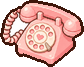
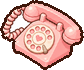
Room items: phone parallel to the TV cabinet, slippers off the rug
The phone art is turned 11 degrees so its base lines up with the cabinet
(new ROTATE option in imprint_items.py). The slippers move just outside the
rug's front edge so they no longer overlap it.

Claude-Session: https://claude.ai/code/session_01MT4YkmG2KGTMjF5XqnwBbs

diff --git a/public/joys-config.js b/public/joys-config.js
@@ -9,7 +9,7 @@ export const IMPRINTS = {
   cat: { name: '小貓抱枕', where: '床上', x: 520, y: 520, w: 130, h: 81, z: 2 },
   coffee: { name: '拿鐵', where: '書桌上', x: 705, y: 332, w: 54, h: 47, z: 1 },
   meal: { name: '小矮桌和碗筷', where: '電視前的地毯上', x: 975, y: 705, w: 170, h: 121, r: .07, z: 3 },
-  hearts: { name: '兩雙室內拖鞋', where: '地毯旁邊', x: 855, y: 792, w: 112, h: 56, r: .03, z: 3 },
+  hearts: { name: '兩雙室內拖鞋', where: '地毯旁邊', x: 832, y: 820, w: 112, h: 56, r: .03, z: 3 },
   gift: { name: '禮物盒', where: '書櫃旁邊', x: 245, y: 705, w: 105, h: 141, r: .04, z: 4 },
   bear: { name: '熊熊玩偶', where: '床邊', x: 330, y: 720, w: 95, h: 126, r: .035, z: 5 },
   paw: { name: '貓狗玩偶', where: '書櫃上', x: 150, y: 430, w: 92, h: 62, z: 2 },
@@ -17,7 +17,7 @@ export const IMPRINTS = {
   star: { name: '星星吊飾', where: '書桌旁的牆上', x: 1022, y: 240, w: 200, h: 135, z: 1 },
   sneaker: { name: '地球儀', where: '書櫃上', x: 212, y: 396, w: 62, h: 86, z: 1 },
   cake: { name: '杯子蛋糕', where: '書桌上', x: 705, y: 334, w: 58, h: 58, z: 1 },
-  call: { name: '復古電話', where: '電視櫃上', x: 1212, y: 576, w: 84, h: 67, z: 1 },
+  call: { name: '復古電話', where: '電視櫃上', x: 1212, y: 576, w: 84, h: 70, z: 1 },
   camera: { name: '拍立得相機', where: '牆角的層架上', x: 845, y: 182, w: 52, h: 52, z: 1 },
   home: { name: '全家福相框', where: '牆角的層架上', x: 790, y: 156, w: 56, h: 55, z: 1 },
   plant: { name: '小多肉盆栽', where: '窗台上', x: 470, y: 398, w: 64, h: 49, z: 1 },

diff --git a/public/sw.js b/public/sw.js
@@ -1,5 +1,5 @@
 // 版本號：主.次.修（見 CLAUDE.md「版本號」）。改了任何檔案就把最後一位 +1，舊快取才會被清掉
-const VERSION = '0.0.99';
+const VERSION = '0.0.100';
 const CACHE = `lifelog-${VERSION}`;
 const ASSETS = [
   './',

diff --git a/art/tools/imprint_items.py b/art/tools/imprint_items.py
@@ -28,6 +28,8 @@ WIDTH = {'cat': 130, 'coffee': 54, 'meal': 170, 'gift': 105, 'bear': 95, 'hearts
 # 掛在牆上的要照牆的斜度斜過去：每往右 1px 往下幾 px（GPT 畫的是正面，右牆約往下 0.49，原圖的線已經斜 0.19）
 # 負的是往右上升：左牆、窗簾桿（約 -0.49）
 SHEAR = {'star': 0.3, 'sparkle': -0.49, 'sunset': -0.49, 'bike': 0.49, 'bath': 0.49}
+# GPT 畫的角度差一點的，順時針轉幾度跟家具平行（電話要和電視櫃平行）
+ROTATE = {'call': 11}
 # 小東西的外框細一點（預設 3px）
 LINE_W = {'star': 2, 'sparkle': 2}
 
@@ -47,6 +49,9 @@ def main():
     OUT.mkdir(parents=True, exist_ok=True)
     for key, w in WIDTH.items():
         im = white_cut(SRC / f'{key}.png')
+        if key in ROTATE:
+            im = im.rotate(-ROTATE[key], expand=True, resample=Image.BICUBIC)
+            im = im.crop(im.getbbox())
         if key in SHEAR:
             k = SHEAR[key]
             dy = round(im.width * abs(k))

diff --git a/CLAUDE.md b/CLAUDE.md
@@ -165,8 +165,8 @@
   - **多選一的擺放位置**（使用者定案，取代原本的「新家具直接疊上去」）：`joys-config.js` 的 `SLOT_OF` 把 32 個圖示分到 22 個位置（`SLOTS` 是位置名稱），同一個位置一次只放一件。拿到新家具時位置已經有東西，視窗問「換上（原本的收起來）／先收著」；收藏冊的按鈕是「放到房間／換上／收起來」。`shownImprints` 和伺服器 `sharedView` 都是新放的在前，`onePerSlot` 每個位置只留第一件（兩台手機各放一件時，留最後放的）。多選一的位置：書桌左邊 coffee／cake、床上 cat／game、書櫃旁地板 gift／workout、地毯中間 meal／cook、電視櫃上（電視右邊）sun／movie／sing／call、門邊地板 umbrella／shop／clean、門上掛鉤 bath／bike。
   - 擺放規劃（使用者定案）：**32 件家具都有圖了**，完整的 22 個位置見 `SLOT_OF`、座標見 `IMPRINTS`。**大小以熊熊為現實比例參考**（使用者定案：瑜珈墊比熊熊高、書和熊熊差不多高）。
     - 書桌左邊 coffee 拿鐵（只有杯子，和蛋糕一樣大）／cake；書桌上的紙條位置不變。角落層架長邊：home 全家福（左）、camera 拍立得（右，只有相機）。窗台 plant、窗簾桿 sparkle 串燈、窗戶旁的牆 sunset 明信片（兩個 `SHEAR` -0.49：負的是往右上升）。
-    - 床上 cat／game；書櫃頂 sneaker 地球儀、paw；書櫃旁 gift／workout；小熊旁 book；地毯中間 meal／cook（同一張小矮桌換成一鍋湯）；地毯左前方 hearts 兩雙室內拖鞋（取代愛心氣球，舊圖 `hearts_balloons.png`）；前方地板 icecream 懶骨頭。
-    - 電視櫃最左格 music 唱片機；電視櫃上（電視右邊）call／sun／movie／sing；門邊地板 umbrella／shop／clean；門前 letter；門上掛鉤 bath／bike（`SHEAR` 0.49，照右牆往右下）。
+    - 床上 cat／game；書櫃頂 sneaker 地球儀、paw；書櫃旁 gift／workout；小熊旁 book；地毯中間 meal／cook（同一張小矮桌換成一鍋湯）；地毯左前方 hearts 兩雙室內拖鞋（放在地毯外面，不疊到地毯；取代愛心氣球，舊圖 `hearts_balloons.png`）；前方地板 icecream 懶骨頭。
+    - 電視櫃最左格 music 唱片機；電視櫃上（電視右邊）call／sun／movie／sing（站在桌面中間；電話用 `imprint_items.py` 的 `ROTATE` 轉 11 度，和櫃子平行）；門邊地板 umbrella／shop／clean；門前 letter；門上掛鉤 bath／bike（`SHEAR` 0.49，照右牆往右下）。
     - 舊模型圖留著備用：`camera_tripod.png`、`cloud_beanbag.png`、`coffee_pot.png`、`hearts_balloons.png`、`shoes.png`。
   - 收藏冊在「累積幸福 → 全部」最下面，32 格（`JOY_ICONS` 全部）。
 - **使用者在小幸福選單（artifact）選了 32 個**：原本 24 個，加上 game 玩了喜歡的遊戲、cook 自己做了一頓飯、shop 買到喜歡的東西、workout 去運動了、movie 看了好看的電影、clean 把房間整理乾淨、call 和好久不見的人聊天、sing 大聲唱了歌。這 8 個已加進 `JOY_ICONS`（emoji）和 `ASK`，但**還沒有像素圖示**：不在 `JOY_PIX`，所以不能選來當小幸福或紙條貼圖（`PICKABLE_ICONS`），收藏冊顯示「即將推出」；圖做好放進 `public/joys/`、加進 `JOY_PIX` 和 `sw.js`，再加進 `SUGGESTIONS`。原本只有圖示的 6 個補了名稱，加進建議：被抱抱了 bear、照顧了植物 plant、完成了一件事 sparkle、雨天也很好 umbrella、吃到冰淇淋 icecream、騎車出去晃晃 bike。
